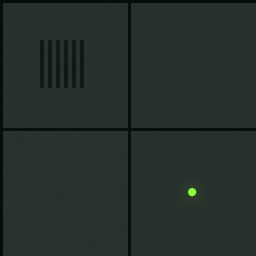
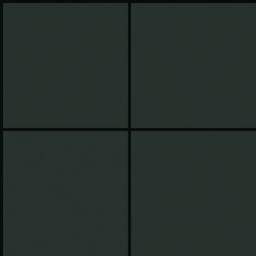
K Corp: неон вернулся сплошными линиями, убраны одиночные повторяющиеся элементы; правило в corps/README
Claude-Session: https://claude.ai/code/session_01EpKbsqVRPte9EQQhg198QP

Changed region(s): [[0.1562, 0.1562, 0.3438, 0.3438], [0.7188, 0.7188, 0.7812, 0.7812]]

diff --git a/Assets/Maps/corps/k-corp/PROMPTS.md b/Assets/Maps/corps/k-corp/PROMPTS.md
@@ -8,7 +8,7 @@
 > Style: Limbus Company / Project Moon background art, K Corp headquarters. Painted anime background, clean
 > sci-fi corporate interior. Palette: near-black green (#070d0b, #13201b), dark slate-green panels (#1d2b26),
 > pale mint-grey polished stone (#cdd9d3, #eef4f0), glowing lime neon accents (#8dff3c) and teal neon (#2fe39a).
-> Matte, calm surfaces — no haze, no light streaks, no lens glare. Sharp clean edges, no text, no people.
+> Calm surfaces — no haze, no light streaks, no lens glare. Neon only as continuous lines. Sharp clean edges, no text, no people.
 > Keep the exact canvas size and composition of the attached placeholder.
 
 ## Полы (вид строго сверху, бесшовные 256×256)
@@ -16,38 +16,44 @@
   (2×2 per tile), thin dark seams, faint glossy reflections. Must tile seamlessly on all edges.*
 - `floors/work.png` — *Seamless top-down texture of dark glossy slate-green floor tiles, 4×4 grid, black seams,
   subtle sheen.*
-- `floors/service.png` — *Seamless top-down texture of dark perforated metal floor plates, 2×2 grid, with a lime
-  diagonal hazard stripe across the middle.*
+- `floors/service.png` — *Seamless top-down texture of dark perforated metal floor plates, 2×2 grid, with a thin lime
+  neon line along the outer tile edges (forms a continuous grid when tiled).*
 - `floors/runner.png` — *Seamless top-down texture of a deep emerald-green glossy floor runner, smooth with soft
   vertical reflections.*
 
+## Правило тайлинга (стены, полы, кровля)
+- **Можно:** сплошные линии во всю длину (неоновый карниз, кант, плинтус), панели и сетка с равным шагом.
+- **Нельзя:** одиночные элементы на тайле (полоска, лампа, решётка, логотип, пятно) — при повторе они встают
+  через равные промежутки, выглядят обрывами и сдвигают визуальный центр. Такое — отдельными объектами.
+
 ## Стены (лицевая сторона, 256×256; повтор ТОЛЬКО по горизонтали, картинка целиком = высота грани)
-Без ярких элементов: никакого неона и бликов на стенах — только панели, швы, плинтус.
-- `walls/exterior.png` — *Front view of a matte dark slate-green wall made of tall panels (seam every 128 px),
-  slightly lighter at the top, darker at the bottom, plain black plinth along the bottom edge. No neon, no glow,
-  no highlights. Left and right edges must tile seamlessly.*
-- `walls/interior.png` — *Front view of a matte light mint-grey corporate wall, tall panels (seam every 128 px),
-  dark slate plinth along the bottom edge. No neon, no glow. Tiles horizontally.*
-- `walls/glass.png` — *Front view of a glass curtain wall: thin dark frame top and sides, dark base strip, pale
-  blue-grey semi-transparent glass with very faint reflection. Keep transparency (PNG alpha).*
+Можно: сплошные горизонтальные линии (неон, карниз, плинтус), панели, сетка. Нельзя: одиночные элементы
+(вертикальная неоновая полоса, лампа, табличка) — при повторе они встанут через каждую клетку.
+- `walls/exterior.png` — *Front view of a dark slate-green wall made of tall panels (seam every 128 px), black
+  cornice band at the top with one continuous glowing lime neon line right under it, black plinth at the bottom.
+  No isolated details: everything must be continuous horizontally. Left and right edges must tile seamlessly.*
+- `walls/interior.png` — *Front view of a light mint-grey corporate wall, tall panels (seam every 128 px), one
+  continuous thin teal neon line above a dark slate plinth. No isolated details. Tiles horizontally.*
+- `walls/glass.png` — *Front view of a glass curtain wall: dark frame top and sides with a thin teal line on the
+  mullion, dark base strip with a continuous teal trim, pale blue-grey semi-transparent glass. Keep PNG alpha.*
 
 ## Двери и окна (вид спереди)
 Картинка целиком растягивается **в вырез** проёма; перемычку и подоконник вокруг рисует сама стена.
-Поэтому: никаких полос стены сверху/снизу, рамка — тонкая по краю, цвета створок — как у стены
+Поэтому никаких полос стены сверху/снизу: рамка — по краю картинки, цвета створок — как у стены
 (`door` — под `exterior`, `door-light` — под `interior`).
 - `doors/door.png` / `doors/door-light.png` 256×256 — *Front view of a closed sliding double door filling the
-  whole canvas: thin dark frame on the edges, two matte leaves in the same color as the wall (dark slate-green /
-  light mint-grey), small vertical handles at the center seam, tiny dim green card-reader light on the right.
-  No neon frame, no glow, nothing above the door.*
-- `doors/gate.png` 512×256 — *Front view of a wide closed elevator door filling the canvas: thin dark frame,
-  two frosted-glass leaves with soft pale-green light from inside. No glow, nothing above the door.*
+  whole canvas: thin dark frame with a glowing lime neon line along the top and both sides, two leaves in the same
+  color as the wall (dark slate-green / light mint-grey), small handles at the center seam, small lime card-reader
+  light on the right. Nothing above the door.*
+- `doors/gate.png` 512×256 — *Front view of a wide closed elevator door filling the canvas: lime neon frame on the
+  top and sides, two frosted-glass leaves with soft pale-green light from inside. Nothing above the door.*
 - `windows/window.png` 256×256, `windows/window-wide.png` 512×256 — *Front view of a window filling the whole
-  canvas: thin dark frame on all edges, mullion every 128 px, pale hazy sky-blue glass, very faint reflection.
-  Keep glass semi-transparent.*
+  canvas: thin dark frame, mullion every 128 px, continuous teal neon line along the sill, pale hazy sky-blue
+  glass with a very faint reflection. Keep glass semi-transparent.*
 
 ## Кровля (вид сверху, бесшовная 256×256)
-- `roofs/roof.png` — *Seamless top-down texture of a dark corporate rooftop: slate-green panels, vent grilles,
-  small lime status lights.*
+- `roofs/roof.png` — *Seamless top-down texture of a dark corporate rooftop: slate-green panels in a 2×2 grid, subtle wear. No vents,
+  lights or other isolated details (those are separate objects).*
 
 ## Вывески (`signs/`, SVG — можно оставить как есть или заменить PNG тех же размеров)
 - `sign` 512×256, `emblem` 256×256, `floor-logo` 768×768 — логотип K: тёмная вертикальная стойка в белом

diff --git a/Assets/Maps/corps/README.md b/Assets/Maps/corps/README.md
@@ -34,4 +34,10 @@
   подоконником. Ширина в клетках = ширина картинки / 256.
 - **Мебель** (`objects/`) — вид сверху, верх картинки = задняя сторона (спинка, задняя стенка).
 - **Вывеска** — `signs/sign.svg` (или `.png`): генератор вешает её у входов в Районе Крыла.
+- **Бесшовные текстуры (полы, стены, кровля, местность) — без одиночных элементов.** Можно: сплошные линии
+  (неон вдоль всей стены, плинтус, карниз), панели и сетку — они при повторе дают непрерывный рисунок. Нельзя:
+  отдельные пятна, полосы, лампы, решётки и т.п., которые повторятся через каждую клетку — при повторе это
+  выглядит как обрывы и артефакты и задаёт ритм, который рисующий карту не контролирует. Такие вещи — объектами.
+- **Двери и окна** картинкой целиком ложатся в вырез проёма (перемычку и подоконник вокруг рисует стена): без полос
+  стены сверху/снизу, створки и неон — в цвет своей стены.
 - Правила размещения (у стены, в углу, рядом с…) — в редакторе: библиотека → «✎ Разметить».
